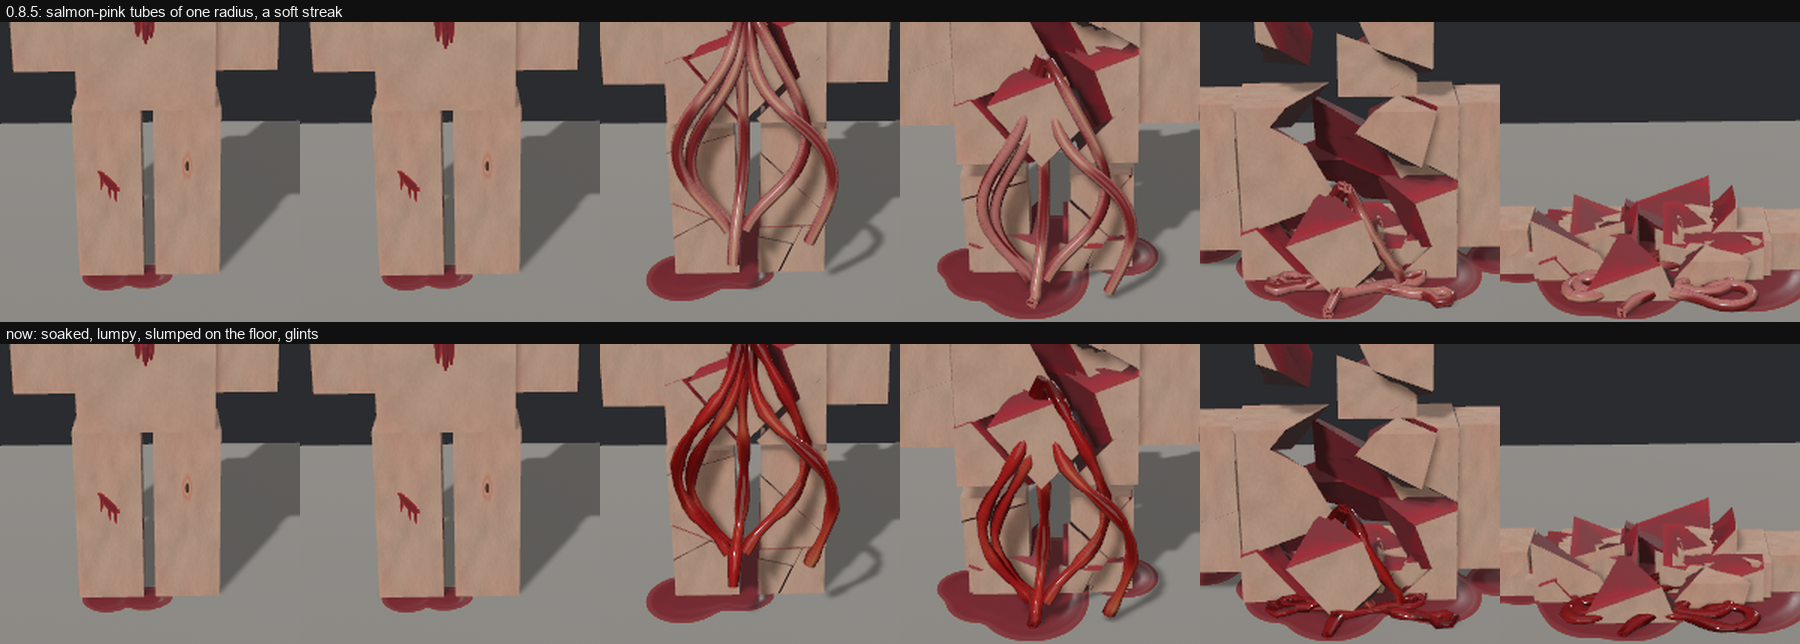
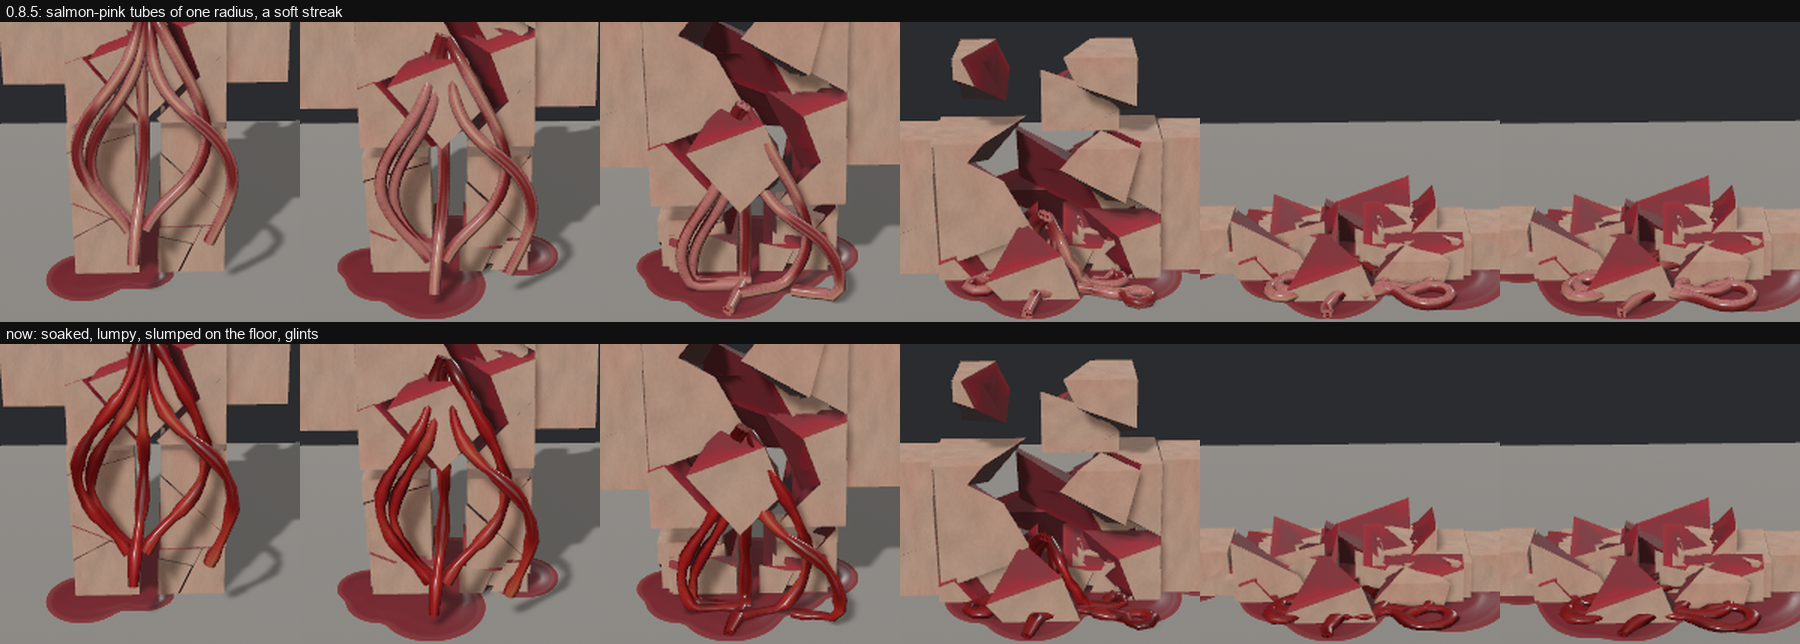
AG-151: GUT_ROUGHNESS stays 0.3 (0.15 and 0.10 measured the same), SOAK_BASE 0.5, media from the final build

diff --git a/src/viscera/look.rs b/src/viscera/look.rs
@@ -44,15 +44,15 @@ const BLOOD: [f32; 3] = [0.40, 0.05, 0.07];
 /// Straight vessels along the strand, each leaving the mesenteric side for both sides of the wall.
 const VESSELS: u32 = 56;
 
-/// **How rough a spilled strand's wall is**: `0.15`, wet and bloodied bowel. Until 0.8.6 it was `0.3`, a soft streak on a clean pink wall; the
-/// *Thing* stills (`docs/research/guts.md`, T1, T2) have a dark body under a hard, small glint, and a lumpy wall ([`crate::viscera::tube_mesh`])
-/// breaks a lower roughness's highlight into several. The flesh shader draws a clear coat only from a wet canvas, which a strand has none of, so
-/// this is the whole of its gloss. **Tuned by eye**, not measured.
-pub const GUT_ROUGHNESS: f32 = 0.15;
+/// **How rough a spilled strand's wall is**: `0.3`, wet serosa — glossy, but a curved tube's highlight
+/// stays a streak rather than a mirror. This crate's own number. Iteration 12 tried `0.15` and `0.10` under the preset's camera and measured no more
+/// highlight (`docs/research/guts.md`); the flesh shader draws a clear coat only from a wet canvas, which a strand has none of, so a sharper glint is a
+/// shader item, and the glints a strand now has are its lumps catching the light.
+pub const GUT_ROUGHNESS: f32 = 0.3;
 
 /// **How soaked a node is at the least, on average**, `[0, 1]`: a spilled strand is slick with blood wherever it hangs, in patches ([`SOAK_PATCH`]).
 /// **Tuned by eye** against `docs/research/guts.md` (Ref D1: even the far end of the pulled bowel is red), not measured.
-pub const SOAK_BASE: f32 = 0.45;
+pub const SOAK_BASE: f32 = 0.5;
 /// **How much of [`SOAK_BASE`] swings along the strand**: the base is `SOAK_BASE * (1 + SOAK_PATCH * (2n - 1))`, `n` in `[0, 1]` a smooth noise of the
 /// arc length on a wavelength of [`SOAK_PATCH_M`]. Blood on a wall is thick in one place and a smear in the next; a strand soaked to one tone along
 /// its length read as red tubing. **Tuned**, `docs/research/guts.md` (Ref D1, T1).

diff --git a/CHANGELOG.md b/CHANGELOG.md
@@ -15,15 +15,16 @@ described in the comment block at the top of `Cargo.toml`; they and every entry 
 
 ### Changed
 
-- **Spilled guts are bloodied, lumpy, slumped on the floor and glossy** (iteration 12, AG-151, `docs/research/guts.md`). The preset's guts were clean salmon-pink tubes of one radius,
+- **Spilled guts are bloodied, lumpy and slumped on the floor** (iteration 12, AG-151, `docs/research/guts.md`). The preset's guts were clean salmon-pink tubes of one radius,
   paler than the pool they fell in: `capture_preset` frame 130, the reddish pixels of the hanging strands, mean sRGB `(126, 68, 66)`, red minus green 58; the *Day of the Dead* gut pull
-  (Savini used real intestines in slaughterhouse blood) is `(138, 36, 31)`, red minus green 102. A strand is now drawn by `soaked_tube`: the coat the wound left (`exp(-arc / 0.30 m)`,
-  restarting at a tear), contact with the floor and a patchy base give each node a soak, the tint is the venous film of `0.35 mm * soak^3`, and the material multiplies it into `gut_image`;
-  `tube_mesh` (and so `soaked_tube`) draws each ring at the strand's radius times two sines along its length, their phases the strand's own seed, which `spill` sets per strand; a ring that lies on
-  the floor is squashed to 0.72 of its height and widened to keep its area; `GUT_ROUGHNESS` is 0.15, from 0.3. Now: `(118, 37, 34)`, red minus green 81, hue 1.8 degrees (the reference's 2.9),
-  and a strand in the pool is darker than the pool. **No digest moves**: `capture_preset`, `capture_entrails` and all eight `capture_skinned` variants print what they printed in 0.8.5, twice each;
-  `bench_carnage`'s digest and timing are 0.8.5's (the retube of five strands is 14.2 us with lumps and 16.8 us soaked, `cargo test --release`, a throwaway). `tube_mesh` keeps its signature and now lumps its radius.
-  **What it does not do, named**: the heap of a pile is three or four strands, there are no organ blobs, and a strand's blood does not dry (a strand has no canvas and the viscera module no clock).
+  (pig guts and blood from a slaughterhouse, by Savini's account in the trivia) is `(138, 36, 31)`, red minus green 102. A strand is now drawn by `soaked_tube`: the coat the wound left
+  (`exp(-arc / 0.30 m)`, restarting at a tear), contact with the floor and a patchy base give each node a soak, the tint is the venous film of `0.35 mm * soak^3`, and the material multiplies
+  it into `gut_image`; `tube_mesh` (and so `soaked_tube`) draws each ring at the strand's radius times two sines along its length, their phases the strand's own seed, which `spill` sets per
+  strand; a ring that lies on the floor is squashed to 0.72 of its height and widened to keep its area. Now: `(117, 36, 35)`, red minus green 80, and a strand in the pool is darker than
+  the pool. **No digest moves**: `capture_preset`, `capture_entrails` and all eight `capture_skinned` variants print what they printed in 0.8.5, twice each; `bench_carnage`'s digest is
+  0.8.5's and its frame time within its noise (the retube of five strands is 14.2 us with lumps and 16.8 us soaked, `cargo test --release`, a throwaway). `tube_mesh` keeps its signature and now lumps its radius.
+  **What it does not do, named**: the highlight is not sharper (`GUT_ROUGHNESS` 0.3, 0.15 and 0.10 measured the same under the preset's camera, and the flesh shader draws a coat only from a wet canvas), the heap of
+  a pile is three or four strands, there are no organ blobs, and a strand's blood does not dry (a strand has no canvas and the viscera module no clock).
 
 ## [0.8.5] - 2026-11-01
 

diff --git a/docs/media/README.md b/docs/media/README.md
@@ -13,4 +13,4 @@ The clips under `docs/` are listed with their recorders and regeneration command
 | `docs/media/drying_front.png` | two rows, 0.8.4 and the release after it, four columns: a spill half a metre across on a tiled floor at 0.6 and at 0.8 of its drying (a flat brown pool; a dark crust round a red middle, the crust 12 mm wide, a few plates cracked at the near edge), the same pool dried and seen at 0.2 m (flat; crazed in patches into 12 mm plates), and the chest wound's runs dried (red edge to edge; dark crusted borders and tails, cracked where they dried first) | `capture_skinned --stroll --floor 512 --dry 600` and `--dry 450` (`--eye 0.3,0.4,-0.45 --at 0.0,0.0,-0.86`), `--dry 320` (`--eye 0.12,0.18,-0.62 --at 0.0,0.0,-0.86`) and `capture_skinned --dry 120 --eye 0.0,1.3,0.75 --at 0.0,1.25,0.0`, frame 359 of each on each build, cropped and resized to 400 x 320 (Lanczos), labels added with Pillow | 2026-11-01 | 0.8.5 |
 | `docs/media/drying_front.gif` | the same spill on 0.8.4 (left) and now (right), `capture_skinned --stroll --floor 512 --dry 450 --eye 0.3,0.4,-0.45 --at 0.0,0.0,-0.86`, 80 frames (40–359, every fourth) at 726 x 312, labelled with the pool's age (0.09 to 0.80 of its drying): the mannequin's leg crosses it in the first frames; on the left it goes from red to dark brown as one tone, on the right a dark rim forms at the edge and moves in, leaving a red middle that dries last, and the near edge cracks past an age of 0.72 | each frame cropped to 500 x 400 from (150, 80), resized to 360 x 288 (Lanczos) and set side by side with Pillow, then `ffmpeg -framerate 12 -i f%03d.png -vf "split[s0][s1];[s0]palettegen=max_colors=96:stats_mode=diff[p];[s1][p]paletteuse=dither=bayer:bayer_scale=4:diff_mode=rectangle" drying_front.gif` | 2026-11-01 | 0.8.5 |
 | `docs/media/guts.gif` | the preset's guts on 0.8.5 (left) and 0.8.6 (right), `capture_preset`, 83 frames (96–260, every second) at 730 x 210, labelled with the frame: the body breaks at frame 120 and its guts hang from the torso, fall and lie in the pool; on the left they are salmon-pink tubes of one radius, on the right blood-soaked, lumpy tubes that lie flattened in the pool with small glints | `capture_preset --out <dir>` on each build, each frame cropped to 520 x 300 from (150, 100), the two set side by side and resized by 0.7 (Lanczos) with Pillow, labels added, then `ffmpeg -framerate 15 -i f%03d.png -vf "palettegen=max_colors=128:stats_mode=diff" pal.png` and `ffmpeg -framerate 15 -i f%03d.png -i pal.png -lavfi "paletteuse=dither=bayer:bayer_scale=4:diff_mode=rectangle" guts.gif` | 2026-11-01 | 0.8.6 |
-| `docs/media/guts.png` | two rows, 0.8.5 and 0.8.6, six columns: frames 112, 118, 124, 130, 140 and 200 of `capture_preset`, each a 200 x 200 crop at (270, 170) enlarged to 300 x 300: the torso opening, the guts hanging, falling and lying in the pool | `capture_preset --out <dir>` on each build, the crops enlarged (Lanczos) and labelled with Pillow | 2026-11-01 | 0.8.6 |
+| `docs/media/guts.png` | two rows, 0.8.5 and 0.8.6, six columns: frames 124, 128, 134, 142, 160 and 200 of `capture_preset`, each a 200 x 200 crop at (270, 170) enlarged to 300 x 300: the guts hanging from the torso, falling and lying in the pool | `capture_preset --out <dir>` on each build, the crops enlarged (Lanczos) and labelled with Pillow | 2026-11-01 | 0.8.6 |

diff --git a/docs/research/guts.md b/docs/research/guts.md
@@ -62,7 +62,7 @@ A practical-effects artist makes guts read as guts by three things the stills be
 
 *Dead Island 2* (Dambuster) builds a zombie "out of a surface mesh and a set of 'viscera' meshes", "individual pieces that can be destroyed, or broken", and fills "the resulting
 hole with destructible guts" (Kotaku, quoted above), after looking at *Day of the Dead*. This crate's guts are tubes swept on the CPU, so the model is: **the tube is the same
-mesh it was, with a per-vertex tint and a per-ring radius**, and a lower roughness. Nothing here is a texture, a new binding, or a shader branch.
+mesh it was, with a per-vertex tint and a per-ring radius**, and a slump where it lies. Nothing here is a texture, a new binding, or a shader branch.
 
 ## Model adopted
 
@@ -79,9 +79,10 @@ All of it cosmetic, outside every digest; a pure function of the strand's own no
    table of `SOAK_STEPS` entries built once. The cube is a measured fix: on a linear scale the first round (`soak * 0.35 mm`) put 90 percent of the range at one
    dark red, because venous blood is opaque in green by 0.04 mm (the table's green is 0.131 at 0.035 mm and 0.031 at 0.07 mm). It is written as
    `Mesh::ATTRIBUTE_COLOR` and the material multiplies it into `gut_image`.
-5. **A lower roughness**, `GUT_ROUGHNESS` 0.3 to 0.15. (The first plan was a clear coat on the material; the flesh shader overwrites `clearcoat` from its own wet
-   canvas every fragment, so it cannot be set from a `StandardMaterial`, and a shader change is a 79-minute WebGL2 re-check. Roughness 0.10 measured the same
-   highlight as 0.15 at the preset's camera, so 0.15 stays.)
+5. **No change to the roughness**, `GUT_ROUGHNESS` stays 0.3. (The first plan was a clear coat on the material; the flesh shader overwrites `clearcoat` from its own wet
+   canvas every fragment, so it cannot be set from a `StandardMaterial`, and a shader change is a 79-minute WebGL2 re-check. The second was a lower roughness: at the
+   preset's camera, frame 130, the 98th percentile of the strands' luminance is 110.9 at 0.30, 107.4 at 0.15 and 107.4 at 0.10, and the three renders are indistinguishable
+   to the eye but for a crisper streak on one strand; a changed public constant with no visible gain is not kept.)
 
 The public additions are `Strand::with_seed`/`seed`, `viscera::soak`, `soak_tint`, `soaked_tube` and their constants; `tube_mesh` keeps its signature and gets
 lumps (not the slump or the tint, which need the floor).
@@ -89,7 +90,7 @@ lumps (not the slump or the tint, which need the floor).
 ## Parameters
 
 All **tuned by eye against the reference set** (this note), none measured: `SOAK_BASE` 0.45, `SOAK_PATCH` 0.5, `SOAK_PATCH_M` 0.12, `WOUND_REACH_M` 0.30,
-`SOAK_FILM_MM` 0.35, `SLUMP_FADE` 1.4, `SLUMP_SQUASH` 0.72, the lump amplitudes 0.22 and 0.09 (0.14 and 0.06 in the first rounds) and periods 5.5 and 2.3 nodes, `GUT_ROUGHNESS` 0.15. Each says so in its
+`SOAK_FILM_MM` 0.35, `SLUMP_FADE` 1.4, `SLUMP_SQUASH` 0.72, the lump amplitudes 0.22 and 0.09 (0.14 and 0.06 in the first rounds) and periods 5.5 and 2.3 nodes; `GUT_ROUGHNESS` is unchanged. Each says so in its
 doc comment.
 
 ## Validation targets

diff --git a/docs/DEMOS.md b/docs/DEMOS.md
@@ -625,9 +625,9 @@ Not done, named: a dried drop (a film under a fifth of the canvas's depth) is st
 
 ![Two columns labelled 0.8.5 and now, frames 96 to 260 of the preset: the body breaks and its guts hang from the torso, fall and lie in the pool; on the left they are clean salmon-pink tubes of one radius, on the right they are dark, blood-soaked, lumpy, with small glints, and they lie flattened in the pool](media/guts.gif)
 
-A torso hit that reaches muscle spills strands of bowel, and until 0.8.6 they were drawn as clean salmon-pink tubes of one radius, paler than the pool they fell in (a strand pixel of luminance 115 against the pool's 67 in the 0.8.5 frame 200; the *Day of the Dead* gut pull is red, `docs/research/guts.md`, Ref D1). `viscera::soaked_tube` draws each strand with a lumpy radius, flattened where it lies on the floor and tinted by the blood film it is soaked in (the colour of a venous film over the pale wall, `bloodstain::spectral`, thickest at the wound end and wherever it lies in the pool, patchy between), and the gut material is half as rough (`GUT_ROUGHNESS` 0.15, from 0.3). The clip is `capture_preset`, frames 96–260 every second, the two columns the same script on 0.8.5 and on 0.8.6. **No digest moves**: `capture_preset`, `capture_entrails` and all eight `capture_skinned` variants print what they printed in 0.8.5, twice each.
+A torso hit that reaches muscle spills strands of bowel, and until 0.8.6 they were drawn as clean salmon-pink tubes of one radius, paler than the pool they fell in (a strand pixel of luminance 115 against the pool's 67 in the 0.8.5 frame 200; the *Day of the Dead* gut pull is red, `docs/research/guts.md`, Ref D1). `viscera::soaked_tube` draws each strand with a lumpy radius, flattened where it lies on the floor and tinted by the blood film it is soaked in (the colour of a venous film over the pale wall, `bloodstain::spectral`, thickest at the wound end and wherever it lies in the pool, patchy between). The clip is `capture_preset`, frames 96–260 every second, the two columns the same script on 0.8.5 and on 0.8.6. **No digest moves**: `capture_preset`, `capture_entrails` and all eight `capture_skinned` variants print what they printed in 0.8.5, twice each.
 
-![Two rows, 0.8.5 and now, six columns: the torso opening, the guts hanging from it, falling, and lying in the pool, clean pink above and dark red below](media/guts.png)
+![Two rows, 0.8.5 and now, six columns (frames 124 to 200): the guts hanging from the torso, falling, and lying in the pool, clean pink above and dark red below](media/guts.png)
 
 Not done, named: the heap of a pile is still three or four strands (a hit spills five, and the pieces of the body lie over some); organ blobs, slime strings and a strand that dries are the next items (`docs/research/guts.md`, `## Deviations`).
 

diff --git a/docs/viscera.md b/docs/viscera.md
@@ -60,7 +60,7 @@ if let Some(first) = strands.first() {
 
 ## What it deliberately does not do
 
-**It never spawns.** `tube_mesh` hands back a `Mesh`; choosing the material, the handle and the parent is the caller's job. What the tube should look like is offered, not imposed: `gut_image()` hands back a texture for the tube's own `UV_0` (since 0.5.41) — a salmon-pink serosa with the mesentery's fat along the tethered side, faint straight vessels round the wall from it, the end that left the wound bloodied and smears dragged along the rest — to put in a material's base colour with a white factor, at `GUT_ROUGHNESS` (0.15 since 0.8.6, 0.3 before). Drawn in the blood pool's own red, every spill read as red tubing lying in it; and a clean pink wall was as wrong the other way, paler than the blood it lay in.
+**It never spawns.** `tube_mesh` hands back a `Mesh`; choosing the material, the handle and the parent is the caller's job. What the tube should look like is offered, not imposed: `gut_image()` hands back a texture for the tube's own `UV_0` (since 0.5.41) — a salmon-pink serosa with the mesentery's fat along the tethered side, faint straight vessels round the wall from it, the end that left the wound bloodied and smears dragged along the rest — to put in a material's base colour with a white factor, at `GUT_ROUGHNESS` (0.3). Drawn in the blood pool's own red, every spill read as red tubing lying in it; and a clean pink wall was as wrong the other way, paler than the blood it lay in.
 
 **A spilled strand is lumpy, slumped where it lies and soaked in blood (0.8.6).** `tube_mesh` draws each ring at the strand's radius times two sines along its length (`LUMP_MAJOR`, `LUMP_MINOR`), their phases from `Strand::seed`, which `spill` sets per strand from its own seed (a strand laid by hand has seed `0`; the seed is not in `digest()` and nothing in the solver reads it). `soaked_tube(strand, sides, floor_y)` is the same mesh with two more things that need the floor: a ring that lies on it is squashed to `SLUMP_SQUASH` of its height and widened to keep its area, and every vertex carries `ATTRIBUTE_COLOR`, the tint of a venous blood film over the pale wall (`soak_tint`, from `bloodstain::spectral`'s Kubelka–Munk, so no blood colour is authored) at the node's `soak`: the coat the wound left (`exp(-arc / WOUND_REACH_M)`, restarting at any tear), contact with the floor, and a patchy base so the coat is thick in one place and a smear in the next. The material multiplies it into `gut_image()`. All of it is outside every digest.
 

diff --git a/docs/preset.md b/docs/preset.md
@@ -269,7 +269,7 @@ and breaks a body that can break.
 
 The guts a torso hit spills are not left clean: each is drawn by `viscera::soaked_tube`, **lumpy** (two sines on its radius, so no two strands bulge alike),
 **slumped** flat where it lies on `ViscSettings::floor_y`, and **soaked** in blood (thickest at the wound end and wherever it lies in the pool, patchy
-between), with a lower roughness (0.15) than a clean wall. It is all cosmetic and outside every digest. `GoreDials::strands` (5 ships) is how many a hit spills; a
+between). It is all cosmetic and outside every digest. `GoreDials::strands` (5 ships) is how many a hit spills; a
 game that draws its own strands with `tube_mesh` gets the lumps and not the slump or the tint, which need the floor. ![A body breaks and its guts hang and fall, frames 96 to 260 of `capture_preset`: 0.8.5 on the left with salmon-pink tubes of one radius, 0.8.6 on the right with blood-soaked, lumpy tubes that lie flattened in the pool](https://raw.githubusercontent.com/bevy-coven/bevy_carnage/main/docs/media/guts.gif)
 
 ## The player's settings
